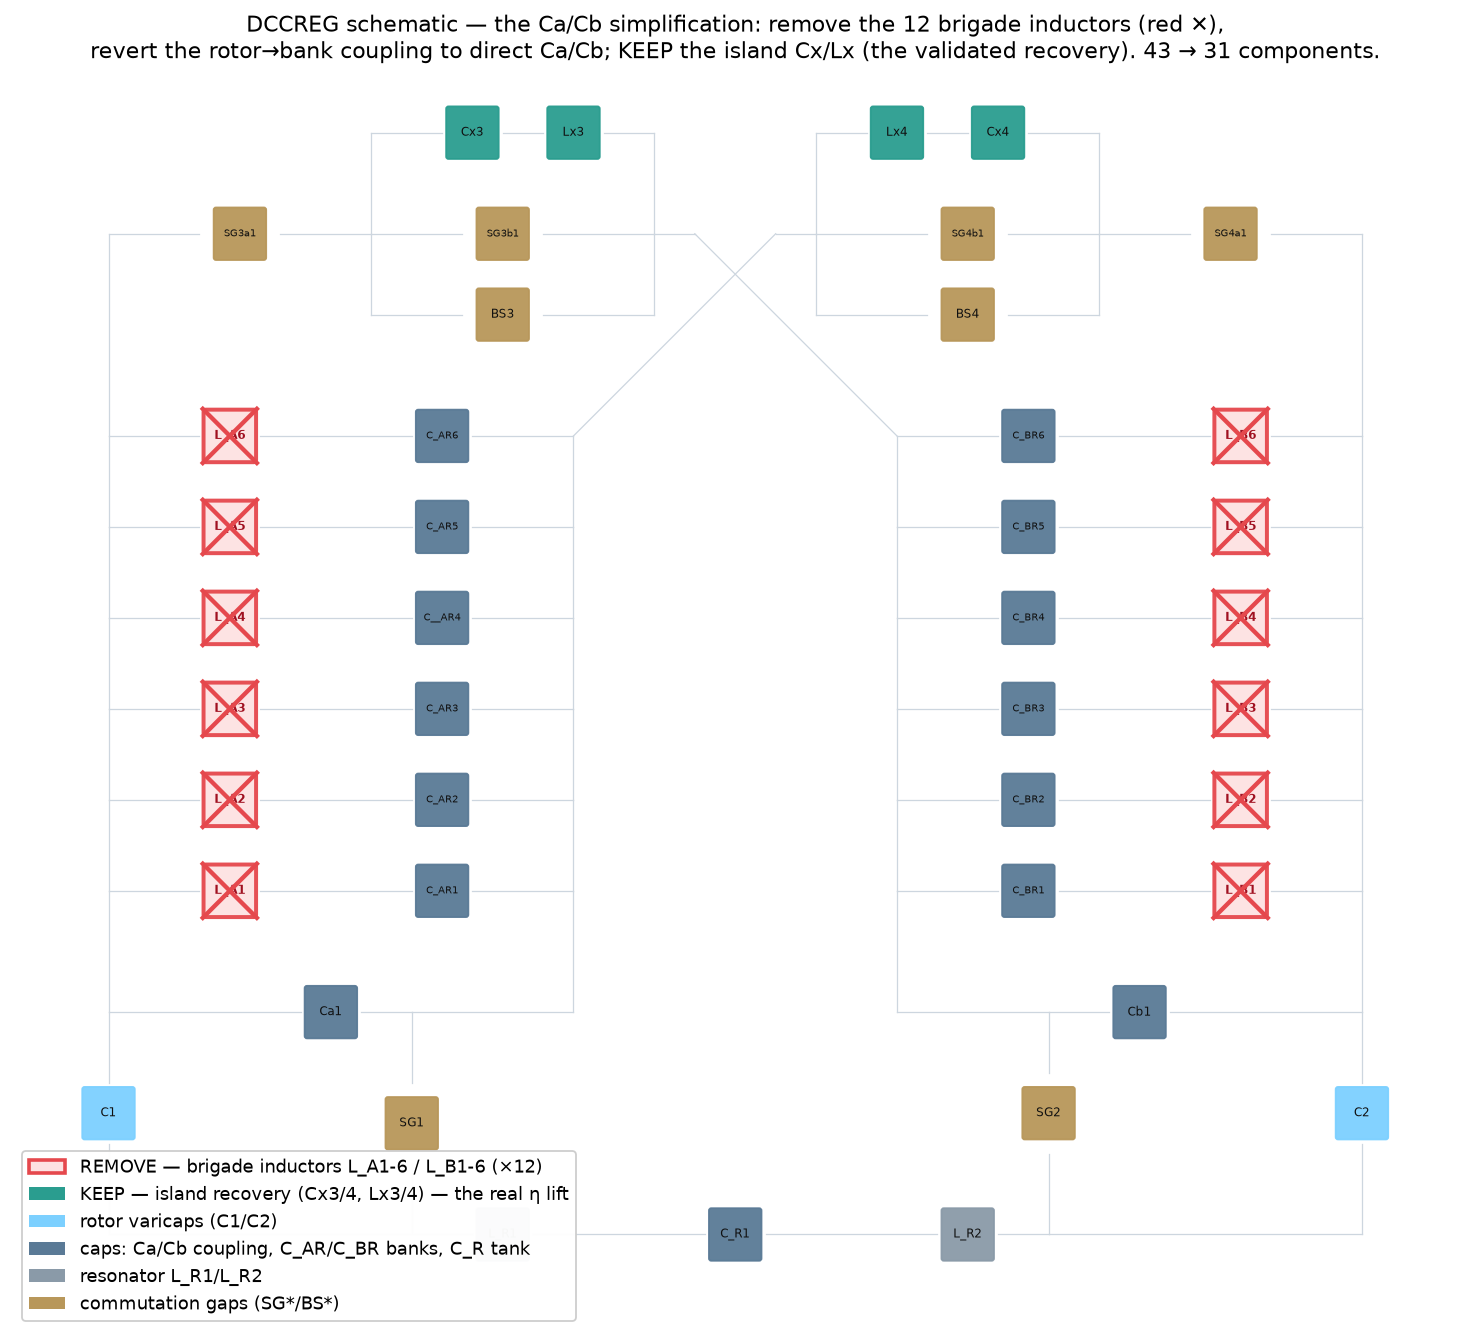
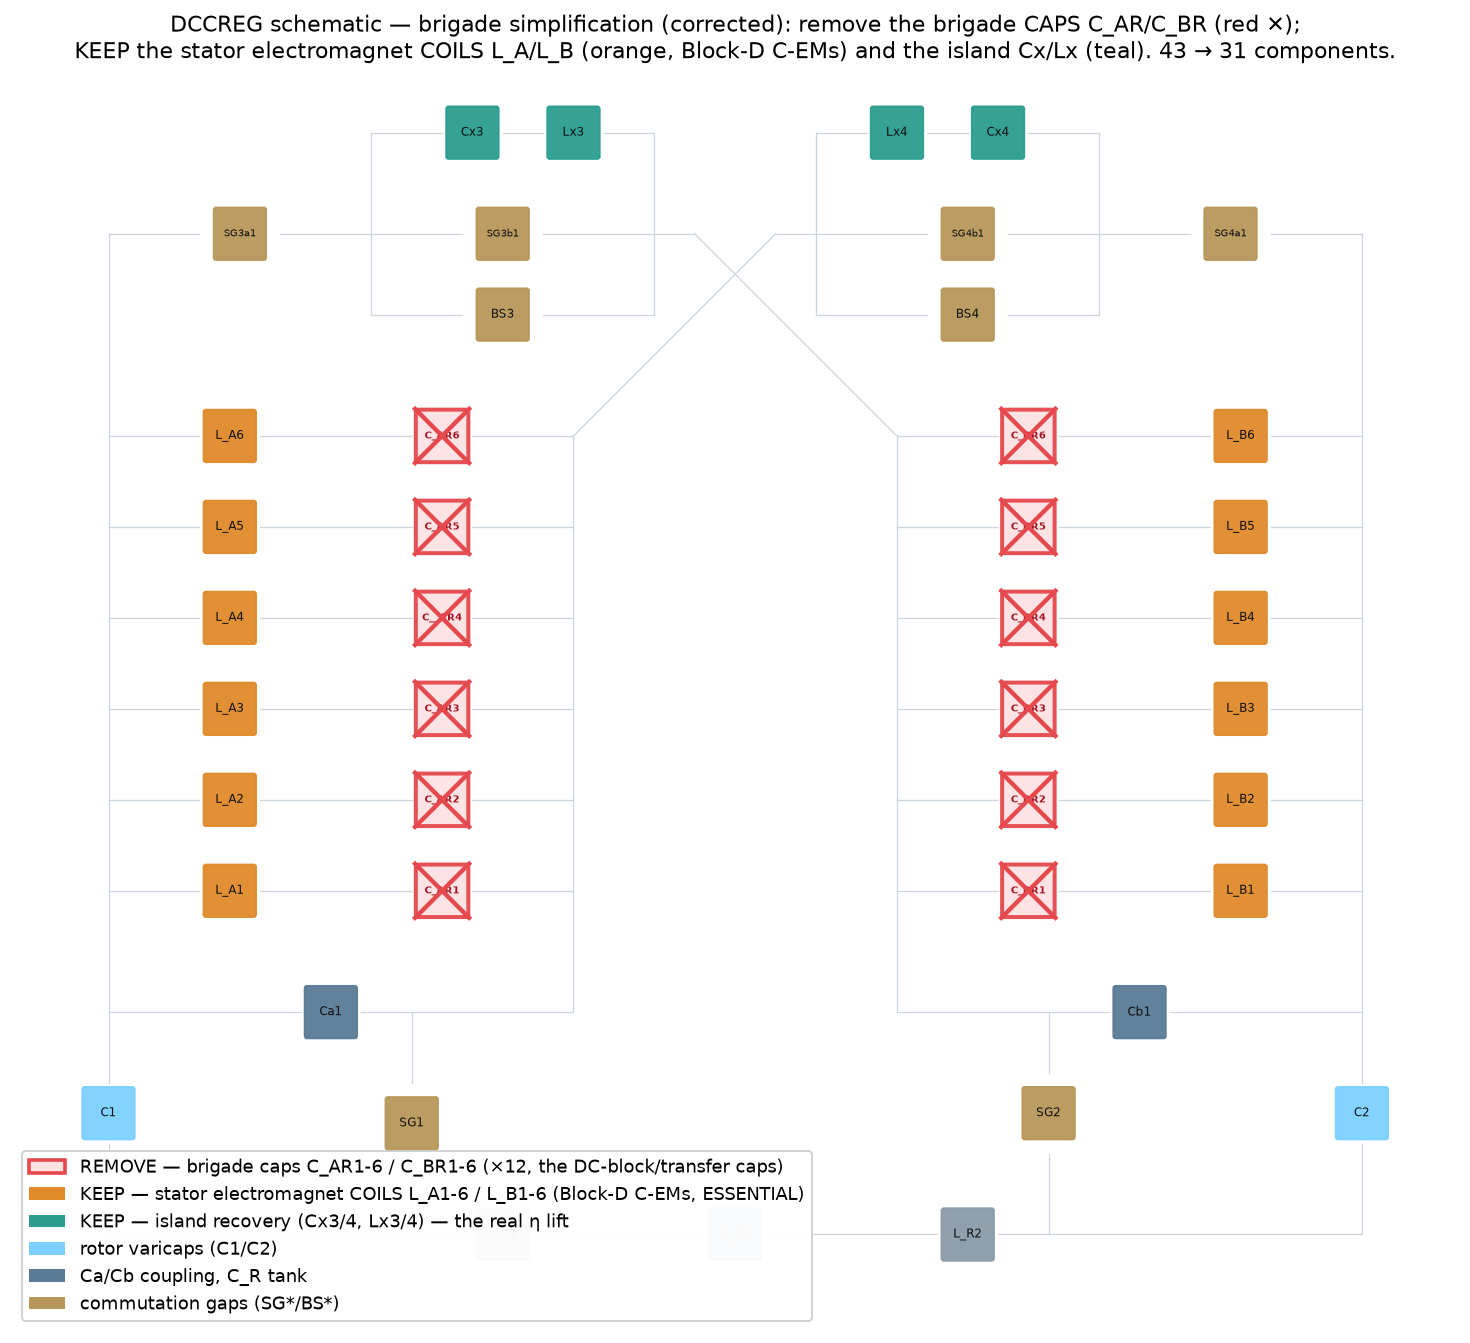
fix: brigade inductors are the stator electromagnet COILS (keep); remove the brigade CAPS
Correction from TMD: the brigade inductors L_A1-6/L_B1-6 are the Block-D stator
electromagnet coils (the reluctance spin-up motor C-EMs) -- ESSENTIAL, they stay.
The simplification removes the brigade CAPS C_AR1-6/C_BR1-6 (the per-coil resonant
DC-block/transfer caps sized for the forbidden recovery), reverting the coupling
to the direct Ca/Cb path. eta unchanged ~0.50.

Re-rendered schematic_simplification.png (caps red-X, coils orange/kept);
corrected the touch-point map in efficiency-resolution.md + findings + CHANGELOG.
Flagged Block-D §6: removing the per-coil series cap removes the mandatory DC
block -> needs a re-arranged block, not a bare deletion (TMD's call).

Claude-Session: https://claude.ai/code/session_01HeihXJbBxn7PZLbRZtG23t

diff --git a/docs/kicad/render_simplification.py b/docs/kicad/render_simplification.py
@@ -43,18 +43,20 @@ def pinabs(inst,lx,ly):
     a=math.radians(inst['ang'])
     return (inst['ox']+x0*math.cos(a)-y0*math.sin(a), inst['oy']+x0*math.sin(a)+y0*math.cos(a))
 
-REMOVE={f"L_A{i}" for i in range(1,7)}|{f"L_B{i}" for i in range(1,7)}   # the 12 brigade inductors
-ISLAND={"Lx3","Lx4","Cx3","Cx4"}                                         # the real recovery (KEEP)
+REMOVE={f"C_AR{i}" for i in range(1,7)}|{"C__AR4"}|{f"C_BR{i}" for i in range(1,7)}  # the brigade DC-block/transfer CAPS
+ISLAND={"Lx3","Lx4","Cx3","Cx4"}
+COIL={f"L_A{i}" for i in range(1,7)}|{f"L_B{i}" for i in range(1,7)}   # stator electromagnet coils (Block D C-EMs) -- ESSENTIAL
 GAPS={"SG1","SG2","SG3a1","SG3b1","SG4a1","SG4b1","BS3","BS4"}
 def kind(ref,lib):
     if ref in REMOVE: return 'remove'
+    if ref in COIL: return 'coil'
     if ref in ISLAND: return 'island'
     if ref in GAPS: return 'gap'
     if 'C_Variable' in lib: return 'varicap'
     if 'Device:C' in lib: return 'cap'
     if 'Device:L' in lib: return 'ind'
     return 'other'
-COL={'remove':'#e5484d','island':'#2a9d8f','gap':'#b8975a','varicap':'#7cd0ff','cap':'#5a7a96','ind':'#8a9aa8','other':'#888'}
+COL={'remove':'#e5484d','coil':'#e08a2a','island':'#2a9d8f','gap':'#b8975a','varicap':'#7cd0ff','cap':'#5a7a96','ind':'#8a9aa8','other':'#888'}
 
 # KiCad Y is downward -> flip for display
 ys=[p[1] for w in wires for p in w]+[i['oy'] for i in insts]
@@ -79,15 +81,15 @@ ax.set_aspect('equal'); ax.axis('off')
 # legend
 from matplotlib.patches import Patch
 import matplotlib.lines as mlines
-leg=[Patch(fc='#fde2e2',ec='#e5484d',lw=2,label='REMOVE — brigade inductors L_A1-6 / L_B1-6 (×12)'),
+leg=[Patch(fc='#fde2e2',ec='#e5484d',lw=2,label='REMOVE — brigade caps C_AR1-6 / C_BR1-6 (×12, the DC-block/transfer caps)'),
+     Patch(fc=COL['coil'],label='KEEP — stator electromagnet COILS L_A1-6 / L_B1-6 (Block-D C-EMs, ESSENTIAL)'),
      Patch(fc=COL['island'],label='KEEP — island recovery (Cx3/4, Lx3/4) — the real η lift'),
      Patch(fc=COL['varicap'],label='rotor varicaps (C1/C2)'),
-     Patch(fc=COL['cap'],label='caps: Ca/Cb coupling, C_AR/C_BR banks, C_R tank'),
-     Patch(fc=COL['ind'],label='resonator L_R1/L_R2'),
+     Patch(fc=COL['cap'],label='Ca/Cb coupling, C_R tank'),
      Patch(fc=COL['gap'],label='commutation gaps (SG*/BS*)')]
 ax.legend(handles=leg,loc='upper left',fontsize=9,framealpha=0.95)
-ax.set_title("DCCREG schematic — the Ca/Cb simplification: remove the 12 brigade inductors (red ✕),\n"
-             "revert the rotor→bank coupling to direct Ca/Cb; KEEP the island Cx/Lx (the validated recovery). 43 → 31 components.",
+ax.set_title("DCCREG schematic — brigade simplification (corrected): remove the brigade CAPS C_AR/C_BR (red ✕);\n"
+             "KEEP the stator electromagnet COILS L_A/L_B (orange, Block-D C-EMs) and the island Cx/Lx (teal). 43 → 31 components.",
              fontsize=12)
 fig.tight_layout(); fig.savefig('docs/kicad/schematic_simplification.png',dpi=120,bbox_inches='tight')
 print("wrote docs/kicad/schematic_simplification.png")

diff --git a/sim/efficiency-resolution-findings.md b/sim/efficiency-resolution-findings.md
@@ -67,21 +67,22 @@ S3 either/or + sequenced-statistical conservation arbiter.)
 
 ## 4. The Ca/Cb simplification — flagged, NOT executed (gated on TMD) `[IR]`
 
-The Ca/Cb **brigade inductors** (`L_A1–6`, `L_B1–6` in the schematic) were kept for the **0.404 → 0.70
-recovery that does not exist**. Removing them **reverts the doubler core to the frozen direct
-equalization** (already validated, z 1.334 / η 0.386); **the island `Cx`/`Lx` stays** (the real, S2-
-validated recovery). The machine then **simplifies to the frozen direct doubler + the island resonant
-transfer — a fully validated configuration, no new physics.** **The actual topology change is a separate
+The brigade **resonant recovery** (the 0.404 → 0.70 path) does not exist. **CORRECTION (TMD): the brigade
+inductors `L_A1–6`/`L_B1–6` are the stator electromagnet COILS** (Block-D reluctance-motor C-EMs) —
+**essential, they stay**; it is the brigade **caps `C_AR1–6`/`C_BR1–6`** (the per-coil resonant DC-block/
+transfer caps, sized for the forbidden recovery) that come out. The doubler coupling reverts to the direct
+Ca/Cb path (validated, z 1.334 / η 0.386); the island `Cx`/`Lx` stays (the real, S2-validated recovery). **The actual topology change is a separate
 design brief on TMD's sign-off.** Touch-points this would change:
 
-| touch-point | change if Ca/Cb inductors removed |
+| touch-point | change |
 |---|---|
-| **KiCad schematic** (`DCCREG_Turbine_circuit.kicad_sch`) | delete `L_A1–6` / `L_B1–6` (12 brigade inductors); the rotor→bank coupling reverts to the direct Ca/Cb path; re-export the netlist (43 → 31 components) |
-| **DXF** (`docs/kicad/*.dxf`, firing stations) | unchanged (the gaps/stations are not the brigade inductors); the SG3b/SG4b island fires + Lx3/Lx4 stay |
-| **`topology_edge_list.csv`** | regenerate from the simplified schematic (drop the 12 L_A/L_B edges) |
-| **`design_synth` `ESTABLISHED`** | drop `brigadeL_mH`; the I10 **brigade multi-resonant clocking** sub-check (the L_A/L_B t½ co-existence) is removed (the island Lx clocking stays) |
-| **resonator sizing** | unchanged — the tank (`C_R`/`L_R`) and the island transfer are untouched; the bank `C_AR/C_BR` stay (they are the transfer banks, not the inductors) |
-| **the operating η** | **unchanged at ≈ 0.50** — the brigade inductors never contributed (their recovery was the forbidden path); removing them is a *simplification*, not an efficiency loss |
+| **CORRECTION (TMD)** | the brigade **inductors `L_A1–6`/`L_B1–6` are the stator electromagnet COILS** (Block-D reluctance-motor C-EMs) — **ESSENTIAL, they stay.** The simplification removes the brigade **CAPS** |
+| **KiCad schematic** | delete the brigade caps **`C_AR1–6` / `C_BR1–6`** (×12, the per-coil resonant DC-block/transfer caps); keep the 12 `L_A/L_B` coils; re-export the netlist (43 → 31 components) |
+| **⚠ DC-block (Block-D §6)** | a coil is a near-short at DC; removing the per-coil series cap removes the *mandatory* DC block. The coils need a re-arranged block (e.g. one per group / a single series-resonant block per branch), **not** a bare deletion — TMD's call |
+| **the doubler coupling** | reverts to the direct **Ca/Cb** path (the validated lumped doubler); confirm the coupling-C budget after the bank caps go |
+| **`topology_edge_list.csv`** | regenerate from the simplified schematic (drop the 12 `C_AR/C_BR` cap edges; the `L_A/L_B` coil edges stay) |
+| **island Cx/Lx, gaps, resonator** | **unchanged** — the island recovery and the commutation are untouched |
+| **the operating η** | **unchanged at ≈ 0.50** — the brigade caps' resonant recovery was the forbidden path; removing them is a simplification, not an efficiency loss |
 
 **The decision is TMD's**; the implication (revert to direct + island, fully validated, η unchanged) is
 mapped so it is informed. This brief only flags it.

diff --git a/docs/efficiency-resolution.md b/docs/efficiency-resolution.md
@@ -81,10 +81,15 @@ agreement is the confidence.
 
 ## 7. Design implications
 
-- **The Ca/Cb brigade inductors do not deliver.** They were kept on the strength of the 0.404 → 0.70 recovery,
-  which does not exist. The machine **simplifies to the direct doubler + the island resonant transfer**
-  (pending the re-examination — see the wrap-up brief).
-- **Keep the island Cx/Lx** — the real recovery.
+- **The brigade resonant recovery does not deliver** (the 0.404 → 0.70 path is forbidden). **CORRECTION
+  (TMD):** the brigade **inductors `L_A1–6`/`L_B1–6` are the stator electromagnet COILS** (the Block-D
+  reluctance spin-up motor C-EMs) — **essential, they stay.** What the simplification removes is the
+  brigade **CAPS `C_AR1–6`/`C_BR1–6`** (the per-coil resonant DC-block/transfer caps that were sized for
+  the forbidden doubler-tax recovery). The coupling reverts to the direct Ca/Cb path.
+  ⚠ **Flag (Block-D §6):** a coil is a near-short at DC, so removing the per-coil series cap removes the
+  *mandatory* DC block — the coils then need a re-arranged DC block (e.g. one per group), not a bare
+  deletion. TMD's call on the block arrangement.
+- **Keep the island Cx/Lx** — the real recovery. **Keep the L_A/L_B coils** — the motor.
 - **Correct η 0.70 → ~0.45–0.50** everywhere it propagated (HTML operating rung + dual-canary, synthesiser
   established anchor, rules-of-thumb).
 - The bench remains the final court on the *physics assumptions* (gap-as-switch, C(θ), FN backstop); this

diff --git a/CHANGELOG.md b/CHANGELOG.md
@@ -8,7 +8,7 @@ Format adapted from [Keep a Changelog](https://keepachangelog.com/). Git holds t
 - **Design freeze v0.10 (temporary, tag `freeze-v0.10`) — disc 8→12 mm → C_R 960→789 pF** — temporary github snapshot of the validated v0.10 geometry + cap set (`docs/varcap-design-freeze-v0.10.md`). The C_R septum disc went 8→12 mm garolite, pinning **C_R 960→789 pF** at the r387 electrode (f₀ 637 kHz, Z₀ 316 Ω). This **lowers the single-kick reach floor (½·C_R·V²) 108→89 mJ**, **improves the M2 island-dump match η 96→99 %** (648 pF island ≈ 789 pF tank), and **widens the fire window 18.6–21 → 16.6–21 kV**. C1/C2 (r387, 16–280 pF), Cx (648 pF), Ca/Cb (309 pF) held; pump z 1.307, galvanic ceiling 1.334, ledger clean — all unchanged. **Six spark gaps placed** (SG1/SG2 return, SG3a/SG4a load, SG3b/SG4b fire — 12 mm W-Cu spheres). **Open / named TODO:** BS3/BS4 backstops (19°/49°, 0.6×strike, outer ~r350–380) + the `varcap-nodeanalysis-template-r0_10_TMD_layout.dxf` (not yet drafted), the S3 spark tier, and the S2 reach re-confirm at 789 pF. Frozen solvers (`shuttle_core.py`, `reference/doubler_core.py`) + `index.html` byte-identical (empty diff asserted); documentation + DXF only. Temporary freeze — **not merged**.
 
 ### Investigated
-- **EFFICIENCY-RESOLUTION — bank the finding, correct the propagated η, flag the simplification → `EFFICIENCY-RESOLVED` (branch `efficiency-resolution` off `seq-stat-commutation`)** — `RECOVERY-FORBIDDEN` settled it: the doubler-core tax is **not** resonantly recoverable; the validated machine is **η ≈ 0.45–0.50** (direct doubler 0.386 + the downstream island sink), **not 0.70**. This brief integrates the documentation, corrects η everywhere it propagated, banks the conservation principle, and flags the Ca/Cb simplification. **New `docs/efficiency-resolution.md`** (the authoritative record, superseding every η ≈ 0.70 statement) — cross-referenced from `README.md` and `CONVENTIONS.md`. **Operating model recomposed (`sim/design_synth.py`):** `operating_point` now composes the **validated cores only** — **η_operating = (useful + island_recovered) / (useful + doubler_tax + island_tax) = (6.153 + f_rec·4.407)/20.347**, computed from `energy_balance.csv`/`resonant_island.csv` + `island_resonant_core` (S2-validated), giving **η 0.518 at the design point (Lx 1 mH, R 2 Ω, f_rec 0.996), 0.48–0.52 over the usable island-Q band** — reported, not hard-coded; the doubler-core conversion η stays **0.386** (regression). **`commutator_real_core` marked SUPERSEDED-DIAGNOSTIC** in `solver_inventory.csv` (alongside `doubler_resonant_core`) — kept only as the forbidden-path diagnostic (`operating.forbidden_diag`: α_max 0.807, η 0.703). **I13 renamed `I13_fe_budget` → `I13_island_recovery`** (asserts the validated η beats the floor; reports the island-sink recovery, not the forbidden FE budget). **η corrected everywhere it propagated (grep-confirmed, no surviving operating 0.70 claim):** the HTML **dual-canary operating rung** now asserts the validated band (`0.44 < η < 0.55`, not `|η−0.70|<0.03`); the headline readout shows **η operating ≈ 0.50** + the island-recovered mJ; **α_max / η_forbidden / FE+arc relabelled the "forbidden-path diagnostic"** (not the operating efficiency); the tier header/footer/verdict rewritten to the validated machine; the synth docstrings corrected. **Conservation principle banked verbatim** (the equalization *is* the pump → resonant recovery is a property of *sinks*, not the rectifying transfers) in `docs/efficiency-resolution.md` §2 and `CONVENTIONS.md`. **The Ca/Cb simplification flagged (NOT executed, gated on TMD):** the brigade inductors `L_A1–6`/`L_B1–6` were kept for the forbidden 0.404→0.70 recovery; removing them reverts the doubler core to the **frozen direct equalization** (z 1.334/η 0.386, validated), keeps the island Cx/Lx (the real recovery), and **simplifies to the frozen direct doubler + island transfer — a fully validated configuration, η unchanged at ≈ 0.50** (the brigade inductors never contributed). Touch-points mapped (KiCad schematic 43→31 comps, `topology_edge_list.csv`, `design_synth` `brigadeL_mH`/I10 clocking sub-check; DXF/resonator unchanged) for TMD's separate sign-off. **The dual canary still reproduces the regression (z 1.3336) and now the corrected operating η (0.518)** in-browser-vs-CLI. Frozen `doubler_core`/`shuttle_core`/`island_resonant_core` (+ the diagnostic cores) **byte-identical**. **Verdict `EFFICIENCY-RESOLVED`** — the repo no longer asserts an efficiency that isn't realizable; **not merged** (corrections land on review; the Ca/Cb topology change awaits TMD).
+- **EFFICIENCY-RESOLUTION — bank the finding, correct the propagated η, flag the simplification → `EFFICIENCY-RESOLVED` (branch `efficiency-resolution` off `seq-stat-commutation`)** — `RECOVERY-FORBIDDEN` settled it: the doubler-core tax is **not** resonantly recoverable; the validated machine is **η ≈ 0.45–0.50** (direct doubler 0.386 + the downstream island sink), **not 0.70**. This brief integrates the documentation, corrects η everywhere it propagated, banks the conservation principle, and flags the Ca/Cb simplification. **New `docs/efficiency-resolution.md`** (the authoritative record, superseding every η ≈ 0.70 statement) — cross-referenced from `README.md` and `CONVENTIONS.md`. **Operating model recomposed (`sim/design_synth.py`):** `operating_point` now composes the **validated cores only** — **η_operating = (useful + island_recovered) / (useful + doubler_tax + island_tax) = (6.153 + f_rec·4.407)/20.347**, computed from `energy_balance.csv`/`resonant_island.csv` + `island_resonant_core` (S2-validated), giving **η 0.518 at the design point (Lx 1 mH, R 2 Ω, f_rec 0.996), 0.48–0.52 over the usable island-Q band** — reported, not hard-coded; the doubler-core conversion η stays **0.386** (regression). **`commutator_real_core` marked SUPERSEDED-DIAGNOSTIC** in `solver_inventory.csv` (alongside `doubler_resonant_core`) — kept only as the forbidden-path diagnostic (`operating.forbidden_diag`: α_max 0.807, η 0.703). **I13 renamed `I13_fe_budget` → `I13_island_recovery`** (asserts the validated η beats the floor; reports the island-sink recovery, not the forbidden FE budget). **η corrected everywhere it propagated (grep-confirmed, no surviving operating 0.70 claim):** the HTML **dual-canary operating rung** now asserts the validated band (`0.44 < η < 0.55`, not `|η−0.70|<0.03`); the headline readout shows **η operating ≈ 0.50** + the island-recovered mJ; **α_max / η_forbidden / FE+arc relabelled the "forbidden-path diagnostic"** (not the operating efficiency); the tier header/footer/verdict rewritten to the validated machine; the synth docstrings corrected. **Conservation principle banked verbatim** (the equalization *is* the pump → resonant recovery is a property of *sinks*, not the rectifying transfers) in `docs/efficiency-resolution.md` §2 and `CONVENTIONS.md`. **The Ca/Cb simplification flagged (NOT executed, gated on TMD):** the brigade inductors `L_A1–6`/`L_B1–6` were kept for the forbidden 0.404→0.70 recovery; the brigade resonant recovery does not deliver. **CORRECTION (TMD): the brigade inductors `L_A1–6`/`L_B1–6` are the stator electromagnet COILS** (Block-D reluctance-motor C-EMs) — **essential, they stay**; it is the brigade **CAPS `C_AR1–6`/`C_BR1–6`** (the per-coil resonant DC-block/transfer caps, sized for the forbidden recovery) that come out, reverting the coupling to the direct Ca/Cb path (z 1.334/η 0.386, validated; island Cx/Lx kept). **η unchanged at ≈ 0.50.** ⚠ a coil is a near-short at DC, so the per-coil series cap is the mandatory DC block (Block-D §6) — removing it needs a re-arranged block (per-group), not a bare deletion. Touch-points + a rendered schematic (`docs/kicad/schematic_simplification.png`) mapped for TMD's separate sign-off (43→31 comps). **The dual canary still reproduces the regression (z 1.3336) and now the corrected operating η (0.518)** in-browser-vs-CLI. Frozen `doubler_core`/`shuttle_core`/`island_resonant_core` (+ the diagnostic cores) **byte-identical**. **Verdict `EFFICIENCY-RESOLVED`** — the repo no longer asserts an efficiency that isn't realizable; **not merged** (corrections land on review; the Ca/Cb topology change awaits TMD).
 - **SEQUENCED-STATISTICAL-COMMUTATION — the test S3 should have run → `RECOVERY-FORBIDDEN` (branch `seq-stat-commutation` off `ngspice-s3`)** — S3 broke the η 0.70 claim on a **static single-gap** model; the real machine is a **sequenced multi-station rotary commutator** where the rectifying rail-return (SG1/SG2, 3°/33°) fires at a **different DXF station** than the tax-recovery forward fire (SG3b/SG4b, 16°/46°), and each strike is **statistical** (V_strike scatter + formative lag) — the rotation could separate **rectify** from **recover** in angle, the either/or S3 forced into one instant. New **`sim/seq_stat_commutation.py`** (circuit-level ngspice + Monte-Carlo + conservation arbiter), `recovery_distribution.csv`, `seq_stat_traces.png`, `sim/seq-stat-commutation-findings.md`. **The trap, recorded honestly (the brief's central warning):** an initial pass built the model on `doubler_resonant_core`'s **α-reflection** and got a spurious **RECOVERY-CONFIRMED (η 0.82) with a FAILED sanity check** (V_strike→0 gave z 1.856 ≠ 1.334) — because the α-reflection **assumes** separability and returns η 0.70+ **by construction**, unable to represent the pump breaking. **The arbiter must be circuit-level, never the α-model.** Rebuilt as the **de Queiroz varicap doubler in ngspice** with the rail-return as plain rectifying diodes (clamp at 0 → the pump ratchets) and the **forward path resonant** (series Lx + diode), with **z observed** (the gain ratio = the conservation-grounded proxy: z>direct ⇒ recovered, z~direct ⇒ relocated, z<1 ⇒ pump broken). **Results:** sanity all-direct z **1.391** (= 1.334 tanh tier, faithful, not re-coded); **deterministic forward-resonant z ≈ 1.39 ≈ direct for every Lx** (the forward diodes **clamp** the over-transfer at current-zero — z does NOT rise toward 2.478); **Monte-Carlo** (statistical V_strike on the forward gaps, 24 realisations): z mean **1.029**, **0% recovering (η>0.60), 92% pump-broken (z<1.05)** — the over-transfer attempt **breaks the forward rectification 92% of the time** (the S3 collapse, now statistical), with **no recovering tail / no stochastic-resonance regime** toward 0.70. **Conservation arbiter:** z ≈ direct → the tax energy **RELOCATES** (clamped by the forward rectifier), it does not net-reach the output at 0.70. **The conservation-deep reason:** the two-cap tax is dissipated **in the rectifying conduction itself**; a resonant rectifier either clamps at current-zero (no over-transfer) or holds off to V_strike (over-transfer but the ratchet breaks) — rotation separates the rail-return from the forward rectifier in angle (so the pump survives) but **each forward rectifier faces the identical local either/or**; the statistics sample both arms, they don't create a third. **Verdict `RECOVERY-FORBIDDEN`** — sequencing+statistics do **not** rescue η 0.70; S3's break is a **conservation fact, not a single-gap artifact**. **The validated recovery is the downstream island only** (RESONANT-ISLAND ~31%, a true sink, NGSPICE-S2-confirmed) → **the floor η ≈ 0.45–0.50 stands; the propagated 0.70 (commutator_real_core / the HTML operating anchor) should be corrected to the floor.** Firewall held (statistical breakdown + LC + charge conservation only). Python cores byte-identical; **not merged** (the confidence statement).
 - **NGSPICE-S3 — close the capstone end-to-end (make-or-break) → `DISCREPANCY-S3` (branch `ngspice-s3` off `ngspice-validate`)** — composes the **whole resonant machine** in one ngspice deck (de Queiroz varicap doubler + Lx resonant rings + V_strike self-break gaps + the firing geometry) to read **z_res / η_real end-to-end** vs the Python anchor (`commutator_real_core`: **z_res 2.478, η_real 0.70**). New **`sim/ngspice_s3.py`** (the make-or-break harness), `spice/s3_tripwire.cir`/`s3_A.cir`/`s3_B.cir`, `spice/run_s3.sh`, `ngspice_s3.csv`, `ngspice_s3.png`, `sim/ngspice-s3-findings.md`. **The TRIPWIRE (non-negotiable) PASSES:** the stabilized de Queiroz charge-defined varicap (`Q='C(θ)·V'` — charge is the state, the V·dC/dt work term native), in the S1 doubler alone, still gives **z = 1.391** (1.334, tanh tier <5 %) — the work term is intact, not damped. **The composition runs STABLY** (both decks converge to t_end — not a numerical failure, not `VARICAP-UNSTABLE`) **but does NOT reproduce the resonant gain:** **S3-A** (Lx + clamping diodes) sits at the **direct z 1.392** (the diodes clamp → no over-transfer); **S3-B** (Lx + V_strike holdoff gaps) **collapses to z 1.009 — the pump BREAKS.** **LOCALIZED CAUSE (the emergent interaction S0/S1/S2 structurally couldn't catch):** the over-transfer and the equalization are **the same physical gap**. To over-transfer (recover the tax) the rail-return must **hold off to V_strike**; but conduction-at-0 each cycle is **the very ratchet that pumps the Bennet doubler** — so holding it off **breaks the pump** (z→1). `commutator_real_core`'s α-reflection model computes `V_direct` (the diode equalization) and **then** reflects to α_max (the V_strike allowance), treating them as **separable**; the literal circuit shows they are **one element** and you can't have both. This **independently confirms the DOUBLER-RESONANT load-bearing caveat** ("resonating the core pump transfers alters z — the equalization IS the pump") in a second engine — now demonstrated in a circuit, not just argued. **Implication (honest):** the **component validations stand** (S0 linear, S1 doubler z via eigen-matrix+ngspice, S2 resonant transfer <0.6 %); but the **η 0.70 headline — predicated on over-transferring the *core* — is NOT circuit-realizable as modeled.** The validated efficiency recovery is the **DOWNSTREAM island** (RESONANT-ISLAND ~31 % combined-tax drop — a true sink, **independently confirmed by S2**), not the core over-transfer → the realistic η is **direct 0.386 + the island recovery (~0.45–0.5), not 0.70.** This is an **independent-engine flag, not a unilateral overturn** — it says *investigate `commutator_real_core`'s separability assumption (and re-examine whether the real schematic's recovery is the downstream island, not the core) before trusting η 0.70 end-to-end.* The make-or-break landed on **break — the valuable kind** (a real model tension, not a faked pass; `NGSPICE-CONFIRMS-S3` not earned, `VARICAP-UNSTABLE` ruled out). Python cores byte-identical; **not merged** (the result is the confidence statement — here, a flagged assumption to resolve before the η 0.70 build claim).
 - **NGSPICE-VALIDATE — independent cross-check of the resonant machine (the Phase-6 capstone) → `NGSPICE-CONFIRMS` (S0/S1/S2; branch `ngspice-validate` off `html-resonant`)** — a **second, independent engine** (ngspice-42) on the same circuit, catching implementation/numeric errors the internal conservation guards structurally can't. Models built **from the governing laws, not the Python numbers**. New **`sim/ngspice_validate.py`** (staged harness + verdict), `spice/` (subcircuits + stage decks + `run_stages.sh`), `ngspice_vs_python.csv`, `ngspice_s2_waveforms.png`, `sim/ngspice-validate-findings.md`. **Staged S0→S3:** **S0 linear** LC tank f₀ to **0.02 %** ✓; **S1 direct doubler** — z validated by **two independent witnesses**: the **de Queiroz analytic eigen-matrix** (`xsim_queiroz_matrix.galvanic_eigen_z`, no time-stepping) to **0.002 %**, AND the **de Queiroz charge-defined varicap** `Q='C(θ(t))·V'` in ngspice reproducing the G3 z **1.39 vs 1.334 (4.3 %, the continuous-tanh tier)** ✓; **S2 resonant transfer (the NOVEL physics)** — an independent LC ring with a current-zero-quenching diode reproduces **t½ and i_pk exactly and the over-transfer V_bank to 0.07–0.61 %** across a Q sweep (R=2/20/100 Ω) ✓ (`island_resonant_core` independently confirmed; the waveform shows the full lossless swap on the Python prediction); **S3 full resonant machine** (composing the varicap doubler + Lx ring + FE + DXF timing to read η_real 0.70/α_max end-to-end) is the **one remaining assembly** — an assembly step, not a varicap limitation. **CORRECTION (recorded honestly):** an earlier pass of this block declared the time-varying varicap `MODEL-INCOMPLETE` — that was **wrong**. The faithful method (de Queiroz charge-defined `Q=` cap + smooth tanh C(θ) + near-ideal one-way diodes + the de Queiroz integration options) **was already in the repo** and the doubler **already two-witness validated** by the standing **`xsim_*` framework** (`xsim_netgen.py` generator, `xsim_queiroz_matrix.py` eigen-witness, `xsim_from_solver.py` X0–X3 staged consumer; ngspice as a ~3 % time-domain tier, the eigen-matrix exact). The `ddt(C·V)` form diverges on an isolated node — but that is not how the doubler is built; the charge-defined `Q=` form pumps natively in the network. This block's net-new contribution is the **independent S2 (resonant-transfer) cross-check** and tying the resonant machine to the xsim/Queiroz lineage. **Honest scope:** proves the *implementation* (linear + doubler + resonant transfer; the doubler also exactly via the eigen-matrix), **not** the *physics assumptions* (gap-as-switch, varicap-as-C(θ), FE-as-FN — that is **hardware**, one rung below the bench). Python cores byte-identical; kicad-cli unavailable so the SPICE netlist comes from the validated `sch_to_netlist` extractor (same KiCad source). **Verdict `NGSPICE-CONFIRMS` (S0/S1/S2)** — the resonant machine carries two-engine confidence on its linear setup, its pump (eigen-matrix exact + ngspice few-%), and its novel resonant core (<0.6 %); S3 is the remaining full-machine assembly. **Not merged** (a validation gate; the result is the confidence statement).